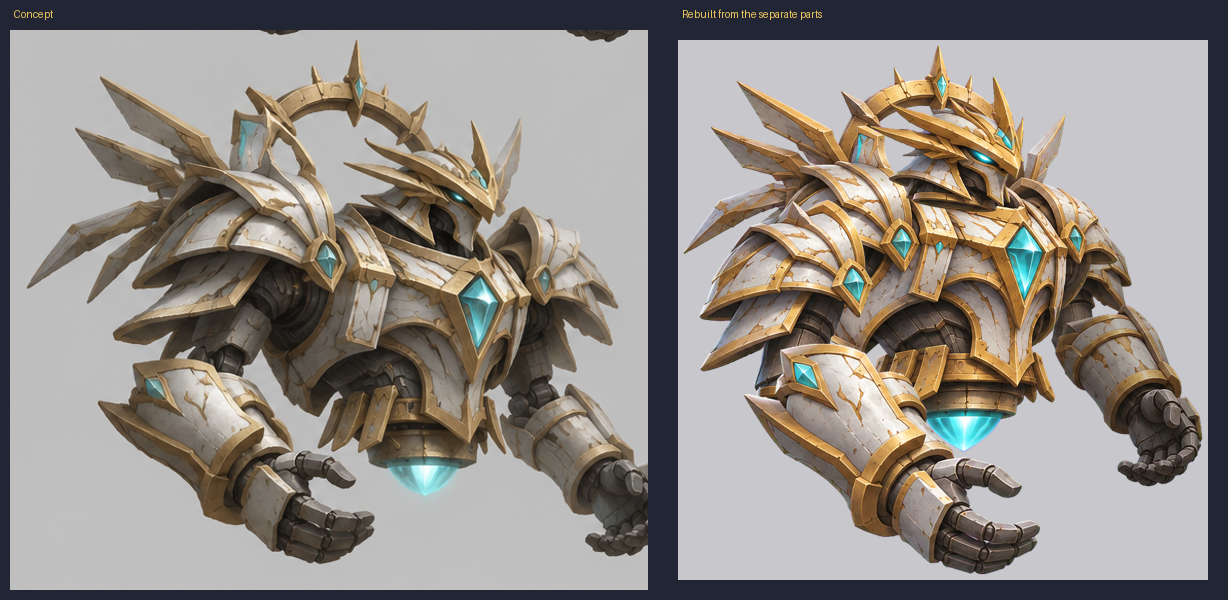
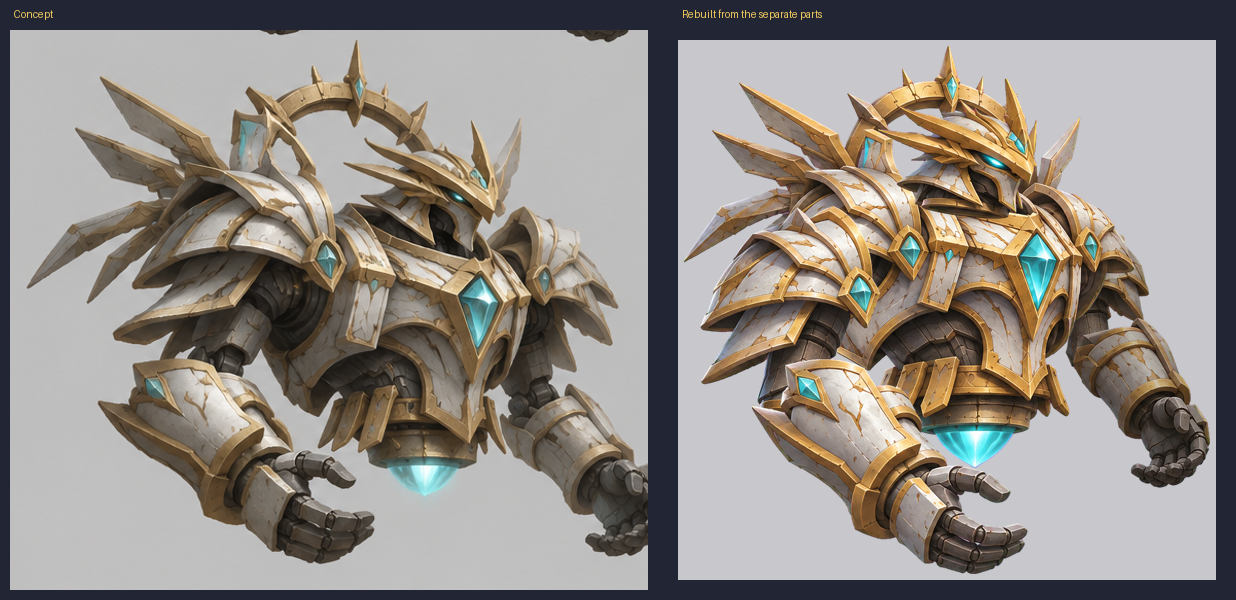
Mecha: forearms 1.15x (elbow still covered)
Claude-Session: https://claude.ai/code/session_01JamU3DGA95eo1q8PxeEFBV

diff --git a/dev/mecha/assemble_mecha2.py b/dev/mecha/assemble_mecha2.py
@@ -16,7 +16,7 @@ S = key(np.asarray(Image.open(D + "mecha_parts_v2.png").convert("RGB")))
 P = {"torso": (401, 254, 1131, 938), "head": (706, 17, 963, 244), "nUp": (47, 262, 339, 617), "nFo": (34, 644, 423, 947), "fUp": (1224, 315, 1428, 616), "fFo": (1225, 655, 1452, 936)}
 A = {"neck": (848, 492), "shN": (612, 636), "shF": (1062, 596), "headB": (838, 236),
      "nUp_sh": (232, 385), "nUp_el": (195, 600), "nFo_el": (98, 690), "fUp_sh": (1318, 400), "fUp_el": (1322, 602), "fFo_el": (1268, 698)}
-C = {"gapHead": -34, "gapEl": [10, -36], "foScale": 1.28, "far": 0.85, "farDark": 0.8, "rotNUp": 0, "rotNFo": 0, "rotFUp": 0, "rotFFo": 0}
+C = {"gapHead": -34, "gapEl": [10, -36], "foScale": 1.15, "far": 0.85, "farDark": 0.8, "rotNUp": 0, "rotNFo": 0, "rotFUp": 0, "rotFFo": 0}
 if len(sys.argv) > 2: C.update(json.loads(sys.argv[2]))
 W, H = 1700, 1400; cv = Image.new("RGBA", (W, H)); O = (450, 300)   # torso offset on the canvas
 def crop(n):
